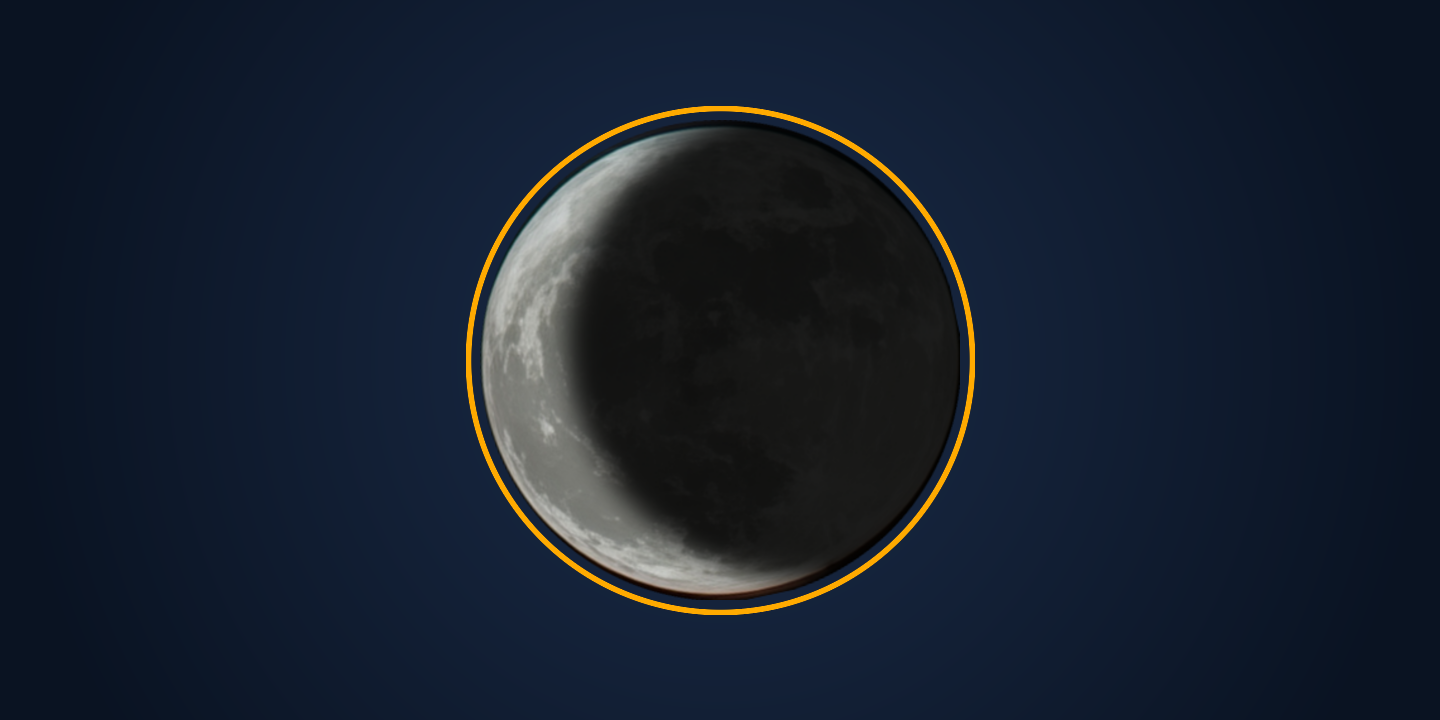
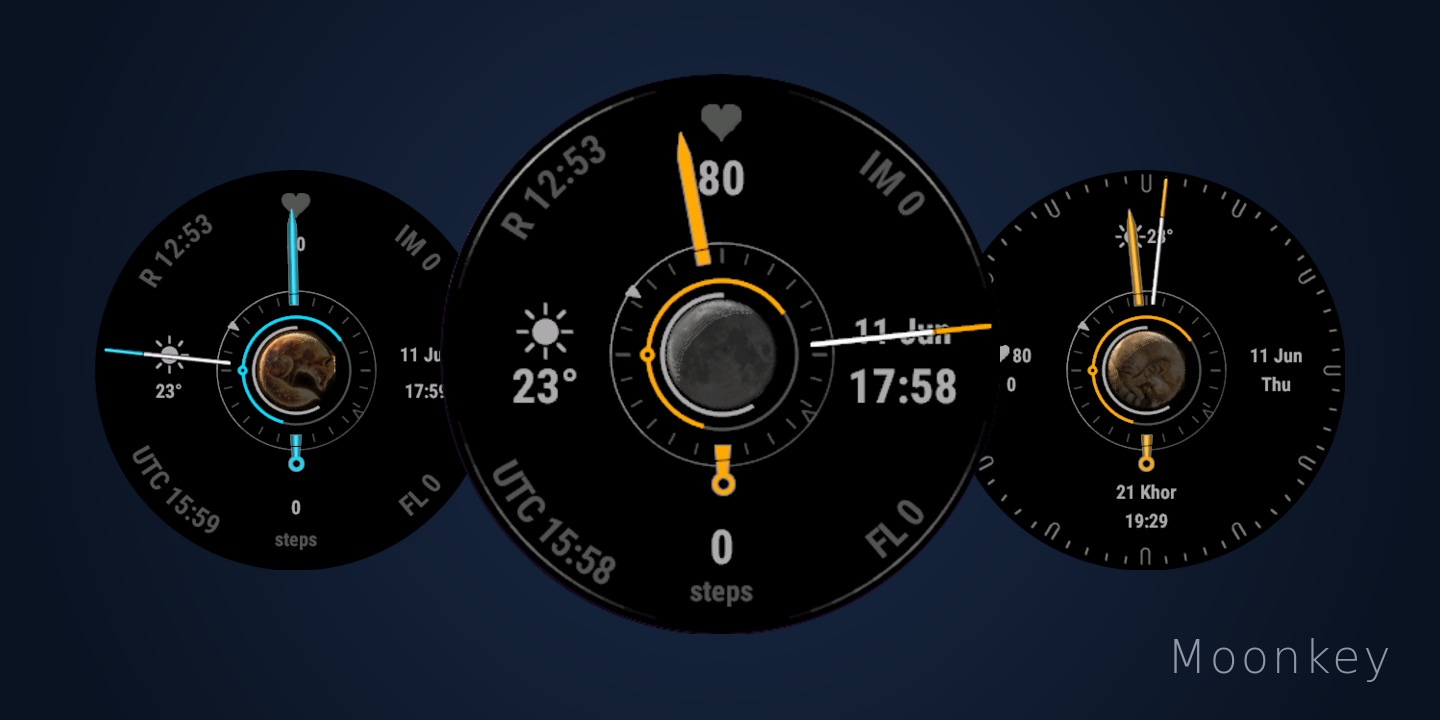
1

diff --git a/agent_docs/store-listing.md b/agent_docs/store-listing.md
@@ -39,11 +39,11 @@ Everything is computed on the watch (no internet) and tracks published almanacs 
 - **Asset rights:** all bundled imagery is the author's and free to redistribute, with no third-party-owned assets. The Moon photo (`data/moon-raw.jpg`) is the author's own photograph; the animal images (cat / fox / polar bear / seal) are the author's.
 
 ## Assets to upload
-Icons/hero are generated by `make store-assets`, screenshots by `make gallery` (all from the Moon photo / sim, no hand editing):
+Generated by `make store-assets` (icon + on-device + hero) and `make gallery` (screenshots), no hand editing. The **store icon and hero are real watch-face screenshots** (the CIQ-store convention), cut out of the gallery renders by `scripts/cut-face.sh` (crop the device screen rect from `simulator.json` + circular mask). The on-device icon stays a designed crescent glyph (it is the in-watch app-list icon, not a shot):
 
-- **Store icon** (500×500): [`docs/store-icon.png`](../docs/store-icon.png) · `make store-icon`
+- **Store icon** (500×500): the round face on transparent, cut from `cfg-default` (marq2aviator). [`docs/store-icon.png`](../docs/store-icon.png) · `make store-icon`. Note: it is a transparent black round face, so on a dark store theme it can blend; the store renders cover images on a light card, where it reads fine.
 - **On-device icon** (128×128): full-colour [`docs/icon-128.png`](../docs/icon-128.png) · `make on-device-icon`. The 64-colour MIP variant [`docs/icon-128-lc.png`](../docs/icon-128-lc.png) is also generated, but the portal only shows a low-colour upload field when a **memory-in-pixel** device is in the product list, and Moonkey is AMOLED-only, so there's no field for it today (kept in case a MIP target is ever added).
-- **Hero** (1440×720): [`docs/store-hero.png`](../docs/store-hero.png) · `make hero`
+- **Hero** (1440×720): three faces on a dark navy-to-black radial gradient (default centred, fox and loaded flanking). [`docs/store-hero.png`](../docs/store-hero.png) · `make hero`
 - **Screenshots**: [`docs/cfg-default.png`](../docs/cfg-default.png) (marq2aviator), [`docs/cfg-loaded.png`](../docs/cfg-loaded.png), [`docs/cfg-fox.png`](../docs/cfg-fox.png), [`docs/cfg-minimal.png`](../docs/cfg-minimal.png) (fenix 8), and [`docs/snap.png`](../docs/snap.png) · `make gallery`. The `cfg-*` shots are transparent full-device renders; flatten onto a background (or crop to the dial) if the portal needs opaque. A round venu3 shot would round out the set.
 
 Still to do before submit: